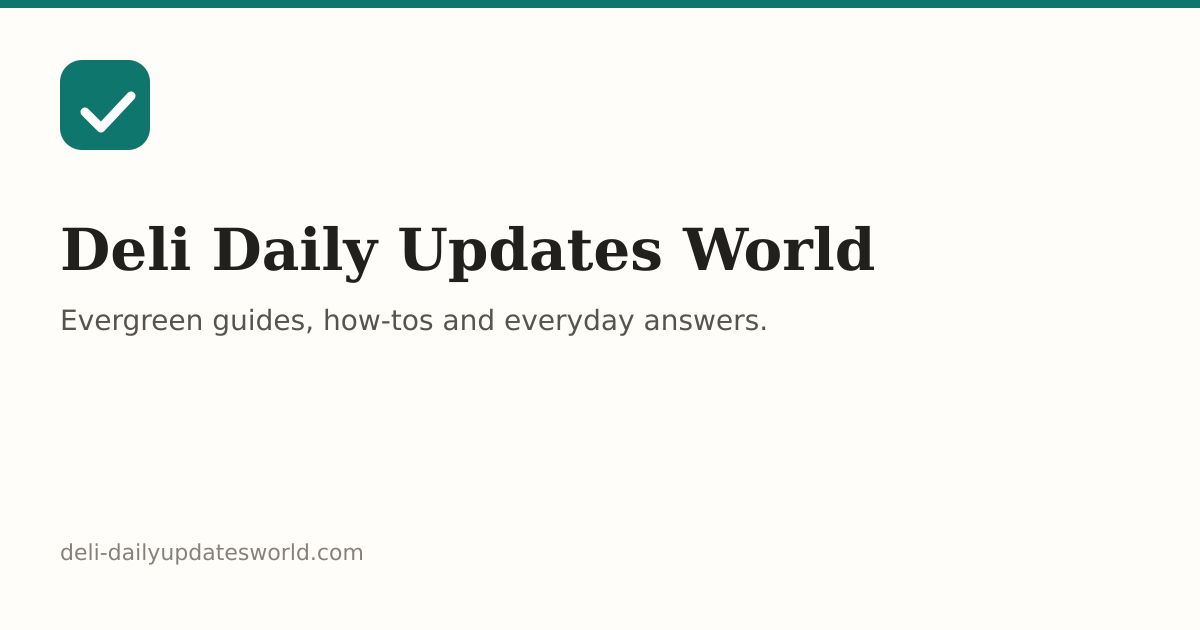
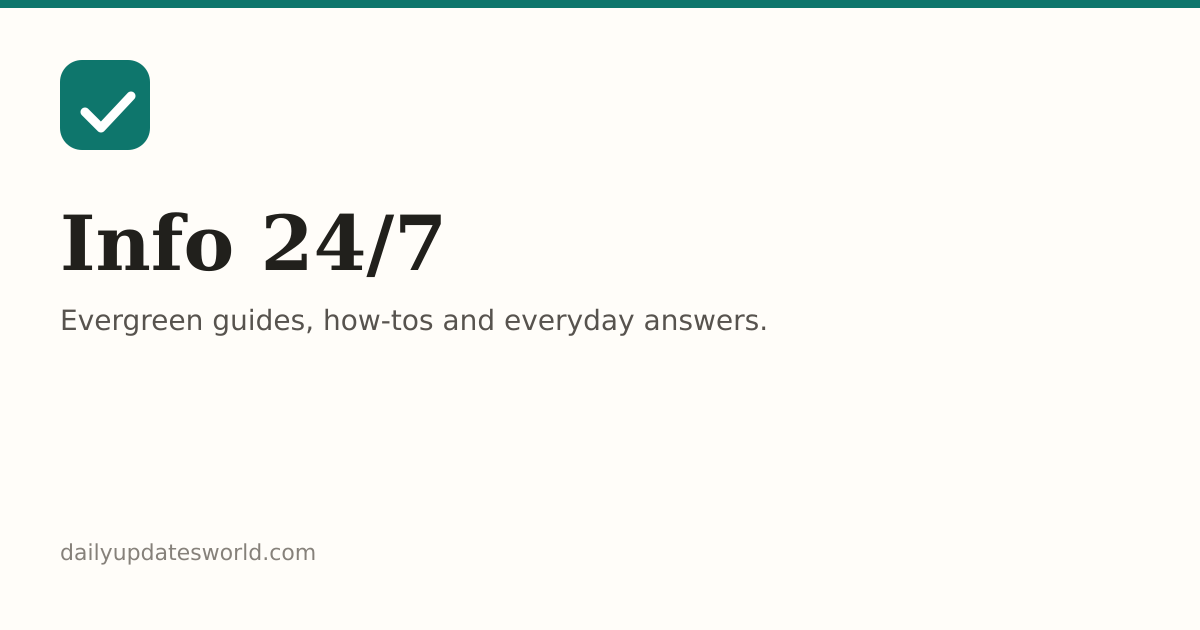
rebrand: Info 24/7 at dailyupdatesworld.com + topical article photos
- Rename site from Deli Daily Updates World (deli-dailyupdatesworld.com)
  to Info 24/7 (dailyupdatesworld.com) across site config, pages,
  components, assets, scripts, and docs
- Regenerate og-default.png with the new brand
- Replace generated category covers with 10 topical photos from
  Unsplash (free license) and one Wikimedia Commons router photo
  (CC BY-SA 4.0, attributed) as article featured images

Changed region(s): [[0.0308, 0.3317, 0.74, 0.4524], [0.0617, 0.8444, 0.3083, 0.9048]]

diff --git a/src/data/site.ts b/src/data/site.ts
@@ -10,10 +10,10 @@ export interface Category {
  * extend the site structure (e.g. add a new category).
  */
 export const siteConfig = {
-  name: "Deli Daily Updates World",
-  shortName: "Deli Daily Updates",
-  legalName: "Deli Daily Updates World",
-  url: "https://deli-dailyupdatesworld.com",
+  name: "Info 24/7",
+  shortName: "Info 24/7",
+  legalName: "Info 24/7",
+  url: "https://dailyupdatesworld.com",
   language: "en",
   locale: "en_US",
   description:
@@ -21,15 +21,15 @@ export const siteConfig = {
   keywords:
     "how-to guides, tech tutorials, troubleshooting, tips and tricks, life hacks, buying guides, AI guides, Android, iPhone, Windows, Mac",
   author: {
-    name: "Deli Daily Updates Editorial Team",
-    url: "https://deli-dailyupdatesworld.com/about",
+    name: "Info 24/7 Editorial Team",
+    url: "https://dailyupdatesworld.com/about",
   },
   social: {
     twitter: "",
     facebook: "",
     linkedin: "",
   },
-  email: "hello@deli-dailyupdatesworld.com",
+  email: "hello@dailyupdatesworld.com",
   newsletter: {
     enabled: true,
     title: "Get the useful stuff, weekly",

diff --git a/src/content/config.ts b/src/content/config.ts
@@ -6,7 +6,7 @@ const articles = defineCollection({
     title: z.string(),
     /** The entry id (filename or frontmatter "slug") is used as the URL slug. */
     description: z.string(),
-    author: z.string().default("Deli Daily Updates Editorial Team"),
+    author: z.string().default("Info 24/7 Editorial Team"),
     pubDate: z.coerce.date(),
     updatedDate: z.coerce.date().optional(),
     /** Must be one of the slugs in src/data/site.ts → categories. */

diff --git a/src/styles/global.css b/src/styles/global.css
@@ -1,5 +1,5 @@
 /* ------------------------------------------------------------------
-   Deli Daily Updates World — global design system
+   Info 24/7 — global design system
    Editorial, trustworthy, fast. Single stylesheet, no dependencies.
 ------------------------------------------------------------------- */
 

diff --git a/docs/DEPLOYMENT.md b/docs/DEPLOYMENT.md
@@ -36,7 +36,7 @@ Upload this folder's **contents** to your Hostinger `public_html/` directory.
 4. Set the site URL environment variable before building so links match your domain:
 
    ```bash
-   PUBLIC_SITE_URL=https://deli-dailyupdatesworld.com npm run build
+   PUBLIC_SITE_URL=https://dailyupdatesworld.com npm run build
    ```
 
    The default in `src/data/site.ts` is already the production URL, so this is optional.
@@ -54,7 +54,7 @@ Hostinger's hPanel supports deploying straight from a Git repository.
    ```
 
 4. Set the **Deployment path** to `public_html` and the **Application root** to `dist/`.
-5. Add the environment variable `PUBLIC_SITE_URL=https://deli-dailyupdatesworld.com`
+5. Add the environment variable `PUBLIC_SITE_URL=https://dailyupdatesworld.com`
    if Hostinger's Git app supports env vars; otherwise the default already matches.
 6. Deploy. Hostinger runs the build and serves `dist/` from your domain.
 
@@ -64,7 +64,7 @@ Copy `.env.example` to `.env` (never commit the real `.env`). All variables are 
 
 | Variable | Purpose | Default |
 | --- | --- | --- |
-| `PUBLIC_SITE_URL` | Canonical URL used in sitemap, RSS, canonical tags | `https://deli-dailyupdatesworld.com` |
+| `PUBLIC_SITE_URL` | Canonical URL used in sitemap, RSS, canonical tags | `https://dailyupdatesworld.com` |
 | `PUBLIC_GA_ID` | Google Analytics 4 measurement ID (`G-XXXXXXX`) | off |
 | `PUBLIC_GTM_ID` | Google Tag Manager container ID (`GTM-XXXX`) | off |
 | `PUBLIC_ADS_ENABLED` | Render ad placeholders (`true`/`false`) | off |
@@ -72,7 +72,7 @@ Copy `.env.example` to `.env` (never commit the real `.env`). All variables are 
 ## After deploying
 
 1. **Google Search Console** — verify domain ownership (DNS TXT or HTML file), then submit
-   `https://deli-dailyupdatesworld.com/sitemap-index.xml`.
+   `https://dailyupdatesworld.com/sitemap-index.xml`.
 2. **Bing Webmaster Tools** — submit the same sitemap if you want Bing coverage.
 3. Check `robots.txt` and `.htaccess` were uploaded (they are in `dist/`).
 4. Test the site: homepage, an article page, `/search`, a category page, and the 404 page.

diff --git a/src/content/articles/android-phone-running-slow.md b/src/content/articles/android-phone-running-slow.md
@@ -1,7 +1,7 @@
 ---
 title: "How to Fix an Android Phone That Is Running Slowly"
 description: "Is your Android phone slow and laggy? Follow these 10 practical fixes — from restarting and freeing storage to cleaning up apps — to make it fast again."
-author: "Deli Daily Updates Editorial Team"
+author: "Info 24/7 Editorial Team"
 pubDate: 2026-01-12
 updatedDate: 2026-08-01
 category: "android"
@@ -10,9 +10,10 @@ type: "troubleshooting"
 draft: false
 featured: true
 featuredImage:
-  src: "/images/covers/android.png"
-  alt: "An illustrated green cover for an Android speed guide"
+  src: "/images/covers/android-phone-running-slow.jpg"
+  alt: "Hands holding a smartphone, representing how to speed up a slow Android phone"
   caption: "Slow Android phone? Start with a restart and build up from there."
+  credit: "Photo via Unsplash"
 seo:
   title: "Android Phone Running Slowly? 10 Fixes That Actually Work"
   description: "Lagged out Android phone? Restart, clear storage, update apps, and more. Our 10-step guide brings a slow Android phone back up to speed."

diff --git a/src/content/articles/wifi-not-working-fixes.md b/src/content/articles/wifi-not-working-fixes.md
@@ -1,7 +1,7 @@
 ---
 title: "Wi-Fi Keeps Dropping or Is Slow? 12 Fixes That Work"
 description: "Fix slow, dropping, or unreliable Wi-Fi at home. Work through these 12 practical fixes — restart, channel, placement, updates, and more — in order."
-author: "Deli Daily Updates Editorial Team"
+author: "Info 24/7 Editorial Team"
 pubDate: 2026-06-08
 category: "internet"
 tags: ["wifi", "internet", "router", "troubleshooting"]
@@ -9,8 +9,9 @@ type: "troubleshooting"
 draft: false
 featured: false
 featuredImage:
-  src: "/images/covers/internet.png"
-  alt: "Teal cover illustration for a Wi-Fi troubleshooting guide"
+  src: "/images/covers/wifi-not-working-fixes.jpg"
+  alt: "A white Wi-Fi router, representing how to fix Wi-Fi problems"
+  credit: "Photo: Solijon Solayev, Wikimedia Commons (CC BY-SA 4.0)"
 seo:
   title: "Wi-Fi Slow or Dropping? 12 Fixes (In Order, Most Likely First)"
   description: "Fix flaky home Wi-Fi: restart the router, change the channel, move it, update firmware, check interference, and more — ordered by what works most often."

diff --git a/src/content/articles/how-to-choose-a-laptop-buying-guide.md b/src/content/articles/how-to-choose-a-laptop-buying-guide.md
@@ -1,7 +1,7 @@
 ---
 title: "How to Choose a Laptop: The Only Buying Guide You Need"
 description: "A step-by-step laptop buying guide: how to match CPU, RAM, storage, screen, and battery to what you actually do — plus which specs to stop overpaying for."
-author: "Deli Daily Updates Editorial Team"
+author: "Info 24/7 Editorial Team"
 pubDate: 2026-04-02
 category: "buying-guides"
 tags: ["buying-guide", "laptops", "comparison", "shopping"]
@@ -9,8 +9,9 @@ type: "buying-guide"
 draft: false
 featured: true
 featuredImage:
-  src: "/images/covers/laptops-computers.png"
-  alt: "Grey cover illustration for a laptop buying guide"
+  src: "/images/covers/how-to-choose-a-laptop-buying-guide.jpg"
+  alt: "A laptop on a desk, representing how to choose the right laptop"
+  credit: "Photo via Unsplash"
 seo:
   title: "How to Choose a Laptop in 2026 (What Actually Matters)"
   description: "Stop overpaying for specs you don't need. Match processor, RAM, storage, screen, and battery life to your real usage with this step-by-step laptop buying guide."

diff --git a/src/content/articles/password-manager-guide.md b/src/content/articles/password-manager-guide.md
@@ -1,7 +1,7 @@
 ---
 title: "Password Managers Explained: Why You Need One (and How to Set It Up)"
 description: "The honest case for password managers — why reusing passwords is dangerous, how a manager fixes it, and a step-by-step setup guide for beginners."
-author: "Deli Daily Updates Editorial Team"
+author: "Info 24/7 Editorial Team"
 pubDate: 2026-04-18
 updatedDate: 2026-08-20
 category: "cybersecurity"
@@ -10,8 +10,9 @@ type: "tutorial"
 draft: false
 featured: false
 featuredImage:
-  src: "/images/covers/cybersecurity.png"
-  alt: "Dark grey cover illustration for a password security guide"
+  src: "/images/covers/password-manager-guide.jpg"
+  alt: "A digital padlock, representing password managers and online security"
+  credit: "Photo via Unsplash"
 seo:
   title: "Password Managers Explained + How to Set One Up in 10 Minutes"
   description: "Stop reusing passwords. What a password manager is, why it's the single best security upgrade you can make, and how to set one up today."

diff --git a/src/content/articles/free-up-storage-phone.md b/src/content/articles/free-up-storage-phone.md
@@ -1,7 +1,7 @@
 ---
 title: "How to Free Up Storage Space on Your Phone"
 description: "Phone storage full? Clear photos, videos, cache, and downloads to free up space fast — on both Android and iPhone — with these step-by-step methods."
-author: "Deli Daily Updates Editorial Team"
+author: "Info 24/7 Editorial Team"
 pubDate: 2026-05-06
 category: "mobile"
 tags: ["storage", "tips", "android", "iphone", "how-to"]
@@ -9,8 +9,9 @@ type: "how-to"
 draft: false
 featured: false
 featuredImage:
-  src: "/images/covers/mobile.png"
-  alt: "Cyan cover illustration for a phone storage guide"
+  src: "/images/covers/free-up-storage-phone.jpg"
+  alt: "A hand holding a smartphone, representing how to free up storage space"
+  credit: "Photo via Unsplash"
 seo:
   title: "How to Free Up Storage on Your Phone (Android & iPhone)"
   description: "Storage full? Reclaim gigabytes in minutes — clear cached data, offload photos and videos, clean WhatsApp and downloads, and more for Android and iPhone."

diff --git a/src/content/articles/how-to-start-a-blog.md b/src/content/articles/how-to-start-a-blog.md
@@ -1,7 +1,7 @@
 ---
 title: "How to Start a Blog in 2026: A Complete Beginner's Guide"
 description: "Start a blog from scratch in 2026 — pick a niche and name, set up hosting and a domain, choose a platform, write your first posts, and get found on Google. Step-by-step, no fluff."
-author: "Deli Daily Updates Editorial Team"
+author: "Info 24/7 Editorial Team"
 pubDate: 2026-03-14
 updatedDate: 2026-08-18
 category: "blogging-seo"
@@ -10,8 +10,9 @@ type: "tutorial"
 draft: false
 featured: false
 featuredImage:
-  src: "/images/covers/blogging-seo.png"
-  alt: "Teal cover illustration for a blogging starter guide"
+  src: "/images/covers/how-to-start-a-blog.jpg"
+  alt: "A notebook and laptop, representing how to start a blog"
+  credit: "Photo via Unsplash"
 seo:
   title: "How to Start a Blog in 2026 (Step-by-Step for Beginners)"
   description: "From picking a niche to publishing your first post and getting traffic — the honest, practical 10-step guide to starting a blog that lasts."

diff --git a/src/content/articles/extend-android-battery-life.md b/src/content/articles/extend-android-battery-life.md
@@ -1,7 +1,7 @@
 ---
 title: "How to Make Your Android Battery Last Longer"
 description: "Simple, proven ways to get a full day (or more) from your Android battery — adjust brightness, limit background apps, manage screen timeouts, and avoid common battery myths."
-author: "Deli Daily Updates Editorial Team"
+author: "Info 24/7 Editorial Team"
 pubDate: 2026-01-28
 updatedDate: 2026-07-15
 category: "android"
@@ -10,8 +10,9 @@ type: "tips"
 draft: false
 featured: true
 featuredImage:
-  src: "/images/covers/android.png"
-  alt: "Green cover illustration for an Android battery guide"
+  src: "/images/covers/extend-android-battery-life.jpg"
+  alt: "A smartphone charging with a cable, representing how to extend battery life"
+  credit: "Photo via Unsplash"
 seo:
   title: "Android Battery Draining Fast? 12 Ways to Make It Last Longer"
   description: "Stop your Android battery dying by mid-afternoon. Practical settings, app habits, and charging tips that actually extend battery life."

diff --git a/src/content/articles/backup-iphone-guide.md b/src/content/articles/backup-iphone-guide.md
@@ -1,7 +1,7 @@
 ---
 title: "How to Back Up Your iPhone (iCloud, Mac, and Windows)"
 description: "Never lose your photos, messages, and settings again. Learn how to back up an iPhone with iCloud, your Mac, or a Windows PC — and how to restore."
-author: "Deli Daily Updates Editorial Team"
+author: "Info 24/7 Editorial Team"
 pubDate: 2026-05-22
 category: "iphone"
 tags: ["iphone", "backup", "icloud", "how-to"]
@@ -9,8 +9,9 @@ type: "how-to"
 draft: false
 featured: false
 featuredImage:
-  src: "/images/covers/iphone.png"
-  alt: "Blue cover illustration for an iPhone backup guide"
+  src: "/images/covers/backup-iphone-guide.jpg"
+  alt: "An iPhone held in one hand, representing how to back up your iPhone"
+  credit: "Photo via Unsplash"
 seo:
   title: "How to Back Up Your iPhone: iCloud, Mac & Windows (Step by Step)"
   description: "Step-by-step iPhone backup guide — iCloud, Finder on Mac, or Windows PC. Plus how to restore and the difference between backup methods."
